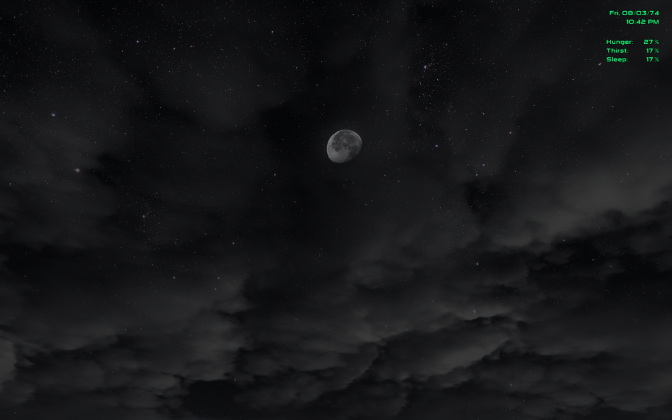
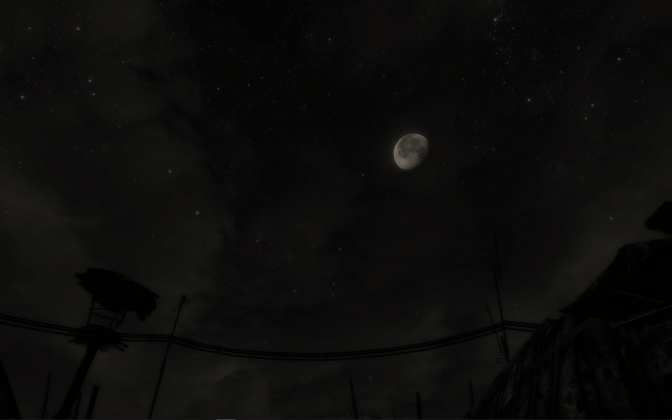
The chapters 5.1 and 5.2 have been easy to rewrite. I had just to take a couple of new screenshots, but aside from that, everything there is pretty much the same.
The next chapter will be more or less equivalent, but from that point on, there's a lot of new mods to install, mostly textures for specific objects.

diff --git a/Modding never changes.md b/Modding never changes.md
@@ -1785,13 +1785,15 @@ The next mod addresses that, [adding a lot of places to investigate](http://www.
 
 
 
+
 ## <a id="unveilingRealWasteland"></a>5. Unveiling the real Wasteland
 
-_Fallout 3_ is a terrific game, but it shows its age at first sight. Moreover, the greenish tint that pervades everything is, by far, one of the most questionable design decisions Bethesda made, at least graphics-wise.
+_Fallout 3_ is a terrific game, but it shows its age at first sight.
 
-If you have followed this guide up to this point, you could play a greatly enjoyable game just with the mods I have recommended. But if you want to go the extra mile and change your visual perception of the Wasteland forever, please, be my guest and keep on reading.
+If you have followed this guide up to this point, you could play a greatly enjoyable game just with the mods I have recommended. But if you want to go the extra mile and change your visual perception of the Wasteland forever, please, bear with me and keep on reading.
 
 However, be advised: the mods in this section will push your machine capabilities to the limit.
+
 
 
 ### <a id="sheWalksInBeauty"></a>5.1. She walks in beauty, like the night of cloudless climes and starry skies
@@ -1800,8 +1802,8 @@ One of the first things we can improve regarding the appearance of our world is 
 
 That will also grant you a short lifespan, killed by any night-crawling creature which happens to find you an easy meal, ready to be disemboweled.
 
-1. Download _Enhanced Night Sky_ file with NMM.
-2. Download _krzymar_HI-RES_Moon-0_2_0-bright_ file with NMM (I prefer the brighter version, instead of the darker one).
+1. Download _Enhanced Night Sky_ from [_Enhanced Night Sky_](http://www.nexusmods.com/fallout3/mods/442/) with NMM.
+2. Download _krzymar\_HI-RES\_Moon-0\_2\_0-bright_ from [_krzymar HI-RES Moon_](http://www.nexusmods.com/fallout3/mods/538/) with NMM (I prefer the brighter version, instead of the darker one).
 3. Activate them in the same order you downloaded them. There shouldn't be any overwriting. There are no data files installed either, so no need to run LOOT.
 4. Launch the game and just compare.
 ![Fallout 3 night before](Images/Fallout%203%20night%20before.png)
@@ -1811,18 +1813,18 @@ That will also grant you a short lifespan, killed by any night-crawling creature
 
 ### <a id="uncannyNuclearHolocaust"></a>5.2. The Nuclear Holocaust like you have never seen before
 
-One of the things I like less of the visual aspect of the game is the green tint that paints everything. I guess that is supposed to depict the residual haze from a nuclear holocaust, but I don't like it anyway.
+One of the things I like less of the visual aspect of the game is the green tint that pervades everything. I guess that is supposed to depict the residual haze from a nuclear holocaust, but I don't like it anyway.
 
 There is a single mod that not only removes the green tint, but also adds an incredible look to the game and a weather system: [_Project Reality_](http://www.nexusmods.com/fallout3/mods/17418/). No more fixed skin-burning sunny days for the Capital Wasteland.
 
 Gopher has a video which covers different [weather and lighting mods available](https://www.youtube.com/watch?v=oHariRMIryI) (14:56), including _Project Reality_. However, we are going to tinker with the mod file because there is apparently a significant framerate drop with the default rain textures. We are going to replace them with [_Enhanced weather_](http://www.nexusmods.com/fallout3/mods/6170/) rain textures.
 
-1. Download _F3ProjectRealityMkI_ manually, **NOT** with NMM.
-2. Download _RECCOMANDED Enhanced Weather - Rain and Snow v2 hotfix b Fomod Package- FULL DO NOT DOWNLOAD ANYTHING ELSE_ manually, **NOT** with NMM.
-3. Uncompress `RECCOMANDED Enhanced Weather - Rain and Snow v2  hotfix b Fomod Package- FULL DO NOT DOWNLOAD ANYTHING ELSE-6170.zip` in a location of your choice. The ZIP contains a single file, `Enhanced Weather - Rain and Snow v2 hotfix b.fomod`.
-4. Using 7-zip or any other unzipping tool, extract the contents of `Enhanced Weather - Rain and Snow v2 hotfix b.fomod` to a location of your choice, namely `[%ENHANCED_WEATHER%]`.
-5. Uncompress `F3ProjectRealityMkI-17418-v1-0beta.rar` in a location of your choice, namely `[%PROJECT_REALITY%]`.
-6. Browse to `[%ENHANCED_WEATHER%\Textures\Mieimod\Different Weather]`, and copy these two files to `[%PROJECT_REALITY%\\textures\F3NV\Weather]`:
+1. Download [_F3ProjectRealityMkI_](http://www.nexusmods.com/fallout3/download/83330) manually, **NOT** with NMM.
+2. Download [_RECCOMANDED Enhanced Weather - Rain and Snow v2 hotfix b Fomod Package- FULL DO NOT DOWNLOAD ANYTHING ELSE_](http://www.nexusmods.com/fallout3/download/72918) manually, **NOT** with NMM.
+3. Unzip `RECCOMANDED Enhanced Weather - Rain and Snow v2  hotfix b Fomod Package- FULL DO NOT DOWNLOAD ANYTHING ELSE-6170.zip` in a location of your choice. The ZIP contains a single file, `Enhanced Weather - Rain and Snow v2 hotfix b.fomod`.
+4. Using 7-zip or any other unzipping tool, extract the contents of `Enhanced Weather - Rain and Snow v2 hotfix b.fomod` to a location of your choice, namely `[%ENHANCED_WEATHER%]` (`.fomod` files are just zipped files).
+5. Unzip `F3ProjectRealityMkI-17418-v1-0beta.rar` in a location of your choice, namely `[%PROJECT_REALITY%]`.
+6. Browse to `[%ENHANCED_WEATHER%\Textures\Mieimod\Different Weather]`, and copy these two files to `[%PROJECT_REALITY%\textures\F3NV\Weather]`:
 	* `Rain.dds`
 	* `Rain2.dds`
 ![Fallout 3 Project Reality with enhanced weather textures](Images/Fallout%203%20Project%20Reality%20with%20enhanced%20weather%20textures.png)
@@ -1832,73 +1834,100 @@ Gopher has a video which covers different [weather and lighting mods available](
 8. Rename the _Enhanced Weather_ files as follows:
 	* `Rain.dds` &rarr; `F3NVRain.dds`
 	* `Rain2.dds` &rarr; `F3NVRain2.dds`
-9. Re-zip the contents of the `[%PROJECT_REALITY%]` folder into an archive named `F3ProjectRealityMkI-17418-v1-0beta-retextured.7z`
+9. Re-zip the contents of the `[%PROJECT_REALITY%]` folder into an archive named `F3ProjectRealityMkI-17418-v1-0beta-retextured.zip`
 10. Open NMM and click on the green plus sign in the left button bar to manually add the file we just created.
 ![NMM install mod from file](Images/NMM%20install%20mod%20from%20file.png)
 11. When the file is loaded, select it and click on the info button to change the name to "F3ProjectRealityMkI retextured".
 ![NMM renaming Project Reality](Images/NMM%20renaming%20Project%20Reality.png)
 12. Double-click on the mod's name to activate it. There shouldn't be any overwriting.
 13. Launch LOOT to rearrange your load order.
-	* `Fallout3.esm`
-	* `Anchorage.esm`
-	* `ThePitt.esm`
-	* `BrokenSteel.esm`
-	* `PointLookout.esm`
-	* `Zeta.esm`
-	* `Unofficial Fallout 3 Patch.esm`
-	* `aHUD.esm`
-	* `iHUD.esm`
-	* `CALIBR.esm`
-	* `Mart's Mutant Mod.esm`
-	* `EVE.esm`
-	* `ArefuExpandedByAzar.esm`
-	* `Mothership Crew.esm`
-	* `RH_IRONSIGHTS.esm`
-	* `Alton, IL.esm`
-	* `CRAFT.esm`
-	* `FO3 Wanderers Edition - Main File.esm`
-	* `FO3 Wanderers Edition - Alternate Travel.esp`
-	* `Detect Traps.esm`
-	* `Advanced Recon Tech.esm`
-	* `CASM.esp`
-	* `DarNifiedUIF3.esp`
-	* `AltonAddon.esp`
-	* `FO3 Wanderers Edition - Main File.esp`
-	* `FO3 Wanderers Edition - DLC Anchorage.esp`
-	* `HZSmoothLight - FO3.esp`
-	* `FO3 Wanderers Edition - DLC The Pitt.esp`
-	* `Blackened RH + FWE + EVE.esp`
-	* `FO3 Wanderers Edition - DLC Broken Steel.esp`
-	* `FO3 Wanderers Edition - DLC Point Lookout.esp`
-	* `FO3 Wanderers Edition - DLC Mothership Zeta.esp`
-	* `WeaponModKits.esp`
-	* `WeaponModKits - BrokenSteel.esp`
-	* `WeaponModKits - OperationAnchorage.esp`
-	* `WeaponModKits - Zeta.esp`
-	* `WeaponModKits - ThePitt.esp`
-	* `WeaponModKits - PointLookout.esp`
-	* **`F3ProjectRealityMkI.esp`**
-	* `ArefuExpandedByAzar-Radio.esp`
-	* `Advanced Recon Gear.esp`
-	* `Advanced Recon Armor.esp`
-	* `Detect Traps - Perk.esp`
-	* `Detect Traps - The Traponator 4000.esp`
-	* `Detect Traps - DLC.esp`
-	* `Advanced Recon Range Finder.esp`
-	* `Advanced Recon Tech.esp`
-	* `Advanced Recon Tech - Detect Traps.esp`
-	* `Advanced Recon Equipment Patcher.esp`
-	* `Advanced Recon Tech FWE.esp`
-	* `PAL - MERGED.esp`
-14. Launch the game and check the incredible look the Wasteland just got!
-![Fallout 3 Project Reality installed](Images/Fallout%203%20Project%20Reality%20installed.png)
+	* (0) `Fallout3.esm`
+	* (1) `Anchorage.esm`
+	* (2) `ThePitt.esm`
+	* (3) `BrokenSteel.esm`
+	* (4) `PointLookout.esm`
+	* (5) `Zeta.esm`
+	* (6) `Unofficial Fallout 3 Patch.esm`
+	* (7) `aHUD.esm`
+	* (8) `iHUD.esm`
+	* (9) `CALIBR.esm`
+	* (a) `Mart's Mutant Mod.esm`
+	* (b) `DCInteriors_ComboEdition.esm`
+	* (c) `EVE.esm`
+	* (d) `ArefuExpandedByAzar.esm`
+	* (e) `Mothership Crew.esm`
+	* (f) `RH_IRONSIGHTS.esm`
+	* (10) `TheInstitute.esm`
+	* (11) `Vault 101 Revisited.esm`
+	* (12) `Alton, IL.esm`
+	* (13) `Advanced Recon Tech.esm`
+	* (14) `Companion Core.esm`
+	* (15) `RobCo Certified v2.esm`
+	* (16) `CRAFT.esm`
+	* (17) `FO3 Wanderers Edition - Main File.esm`
+	* (18) `FO3 Wanderers Edition - Alternate Travel.esp`
+	* (19) `Detect Traps.esm`
+	* (1a) `Impervious Power Armour.esm`
+	* (1b) `CASM.esp`
+	* (1c) `BetterGamePerformance.esp`
+	* (1d) `GNR Enhanced.esp`
+	* (1e) `DarNifiedUIF3.esp`
+	* (1f) `AltonAddon.esp`
+	* (20) `FO3 Wanderers Edition - Main File.esp`
+	* (21) `HZSmoothLight - FO3.esp`
+	* (22) `FO3 Wanderers Edition - DLC Broken Steel.esp`
+	* (23) `FO3 Wanderers Edition - DLC Point Lookout.esp`
+	* (24) `Blackened FWE + MMM + EVE.esp`
+	* (25) `RH_FWE_Bridge.esp`
+	* (26) `HeirApparent.esp`
+	* (27) `RobCo Certified v2 Omnipatch.esp`
+	* (28) `Mr Smith's Scrapyard.esp`
+	* (29) `Expanded Megaton House V3.esp`
+	* (2a) `Expanded Megaton House V3-No Stove.esp`
+	* (2b) `Megaton Walkway.esp`
+	* (2c) `NotSoFast.esp`
+	* (2d) `WeaponModKits.esp`
+	* **(2e) `F3ProjectRealityMkI.esp`**
+	* (2f) `RH_EVE_Bridge.esp`
+	* (30) `IntoTheDeepWoods.esp`
+	* (31) `Existence 2.0.esp`
+	* (32) `FO3 Wanderers Edition - DLC Anchorage.esp`
+	* (33) `FO3 Wanderers Edition - DLC The Pitt.esp`
+	* (34) `FO3 Wanderers Edition - DLC Mothership Zeta.esp`
+	* (35) `WeaponModKits - BrokenSteel.esp`
+	* (36) `WeaponModKits - OperationAnchorage.esp`
+	* (37) `WeaponModKits - ThePitt.esp`
+	* (38) `WeaponModKits - Zeta.esp`
+	* (39) `WeaponModKits - PointLookout.esp`
+	* (3a) `RH_WMK_Bridge.esp`
+	* (3b) `ArefuExpandedByAzar-Radio.esp`
+	* (3c) `Conelrad 640-1240.esp`
+	* (3d) `FasterMorePowerfulMines.esp`
+	* (3e) `Advanced Recon Gear.esp`
+	* (3f) `Advanced Recon Armor.esp`
+	* (40) `Detect Traps - Perk.esp`
+	* (41) `Detect Traps - The Traponator 4000.esp`
+	* (42) `Detect Traps - DLC.esp`
+	* (43) `Advanced Recon Range Finder.esp`
+	* (44) `Advanced Recon Tech.esp`
+	* (45) `Advanced Recon Tech - Detect Traps.esp`
+	* (46) `Advanced Recon Equipment Patcher.esp`
+	* (47) `Advanced Recon Tech FWE.esp`
+	* (48) `PAL - MERGED.esp`
+	* (49) `RobcoCertified24SideMod.esp`
+	* (4a) `RobCo Certified v2 Impervious FWE.esp`
+	* (4b) `RobCo Certified v2 Impervious.esp`
+	* (4c) `RobCo Certified v2 Mechanist's Edition.esp`
+	* (4d) `Companion Core DLC Addon.esp`
+	* (4e) `Mart's Mutant Mod - DC Interiors.esp`
+14. Launch the game and check the incredible look the Wasteland just got! Compare before and after:
+![Fallout 3 Project Reality before](Images/Fallout%203%20Project%20Reality%20before.png)
+![Fallout 3 Project Reality after](Images/Fallout%203%20Project%20Reality%20after.png)
 15. Pull up your PipBoy to check the new option in _Items_/_Apparel_ section to configure _Project Reality_.
 ![Fallout 3 Project Reality option](Images/Fallout%203%20Project%20Reality%20option.png)
 16. Click on _Project Reality MkI_ and check the settings. There are a lot of things for you to tinker with until you feel comfortable (or uncomfortable, since I guess radioactive rain is not a pretty thing to be under).
 ![Fallout 3 Project Reality settings](Images/Fallout%203%20Project%20Reality%20settings.png)
-
-Just a small note... Remember the previous screenshot showing our enhanced night? Well, look at this:
-
+17. Just a small note... Remember the previous screenshot showing our enhanced night? Well, look at this:
 ![Fallout 3 night after Project Reality](Images/Fallout%203%20night%20after%20Project%20Reality.png)
 
 Things keep getting better and better!

diff --git a/README.md b/README.md
@@ -6,6 +6,12 @@ Take a look at the file `Modding never changes.md`. That is the main guide file,
 
 ### Changelog
 
+**(v0.34) [20/09/2016] Rewrite complete up to 5.2.**
+
+The chapters 5.1 and 5.2 have been easy to rewrite. I had just to take a couple of new screenshots, but aside from that, everything there is pretty much the same.
+
+The next chapter will be more or less equivalent, but from that point on, there's a lot of new mods to install, mostly textures for specific objects.
+
 **(v0.33) [18/09/2016] New chapter about new explorable places in D.C.**
 
 This is the final chapter before starting with textures, meshes and animations. It's a new chapter, and it covers _DCInteriors Project_, which add tons of explorable places in Downtown D.C. in particular and the Wasteland in general.
@@ -100,7 +106,7 @@ Final chapter finished... Well, _almost_ final chapter. There are a few remainin
 
 This chapter is about people reanimated (new and more natural animations) and redesigned (a huge overhaul of face meshes all around the game). And that's it. This is the game we are going to play.
 
-However, there are certain mods that I would like to include in the following rehearshal. I have wrote them down in a separate sheet in `Mods installed.ods`. I will consider the contents finished then.
+However, there are certain mods that I would like to include in the following rehearsal. I have wrote them down in a separate sheet in `Mods installed.ods`. I will consider the contents finished then.
 
 **(v0.18) [21/08/2016] Section about lighting finished.**
 
@@ -156,7 +162,7 @@ On a side note, it's a bit difficult to write a guide like this with a cat cravi
 
 At last!
 
-I have finished the section about weapons system revamp (WMK, EVE and RH_IronSights). The game runs without crashes (apparently), but I have no installed the compability patch among FWE, EVE and MMM, because we are going to install Project Beauty, and there is a combo patch for all of them.
+I have finished the section about weapons system revamp (WMK, EVE and RH_IronSights). The game runs without crashes (apparently), but I have no installed the compatibility patch among FWE, EVE and MMM, because we are going to install Project Beauty, and there is a combo patch for all of them.
 
 The end is nigh!
 
